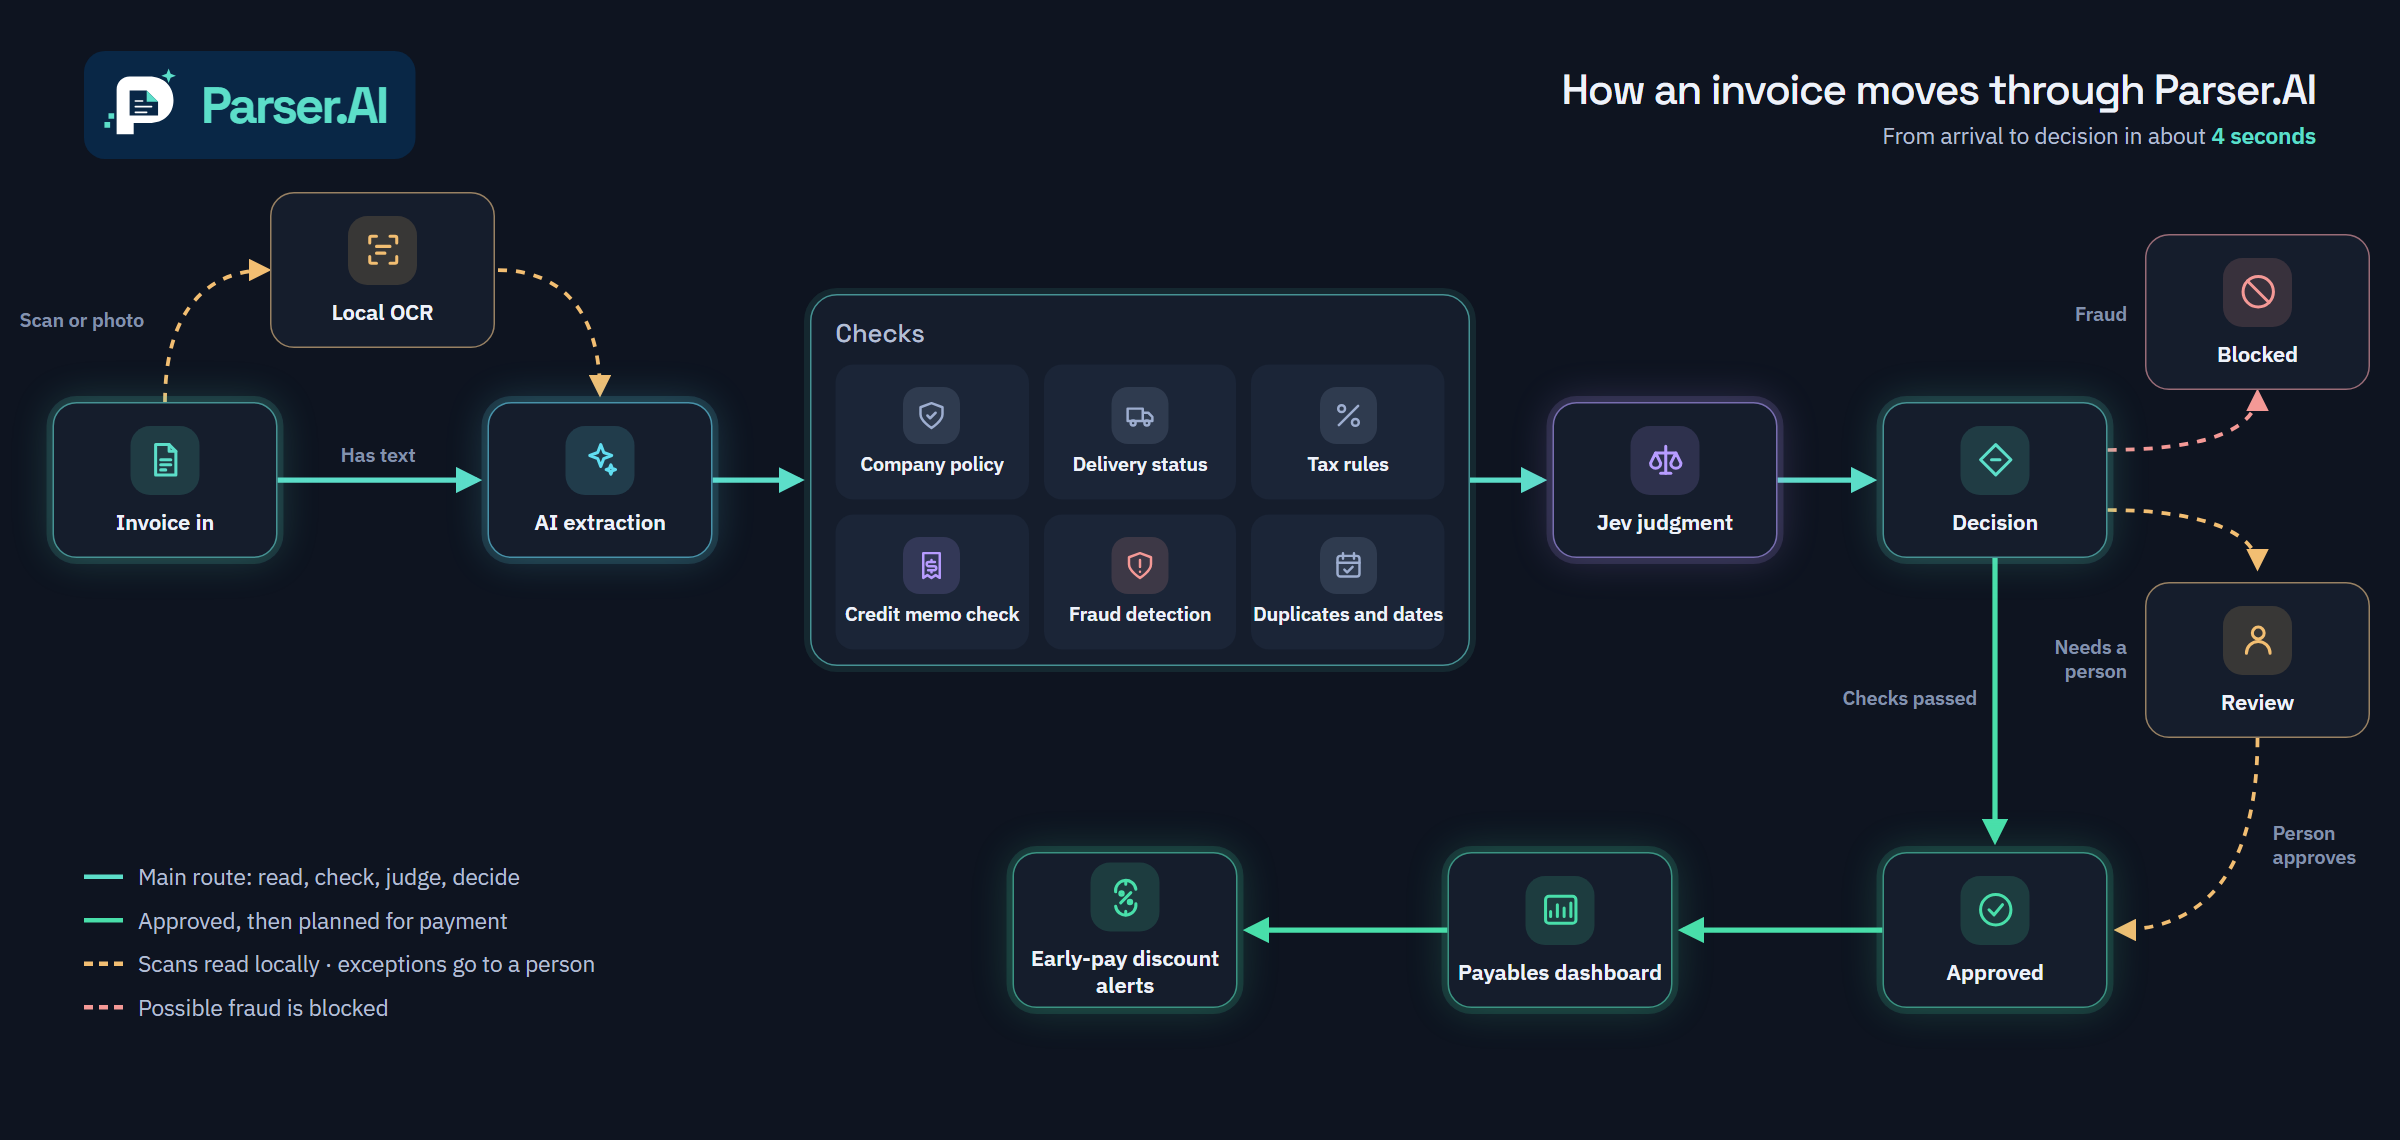
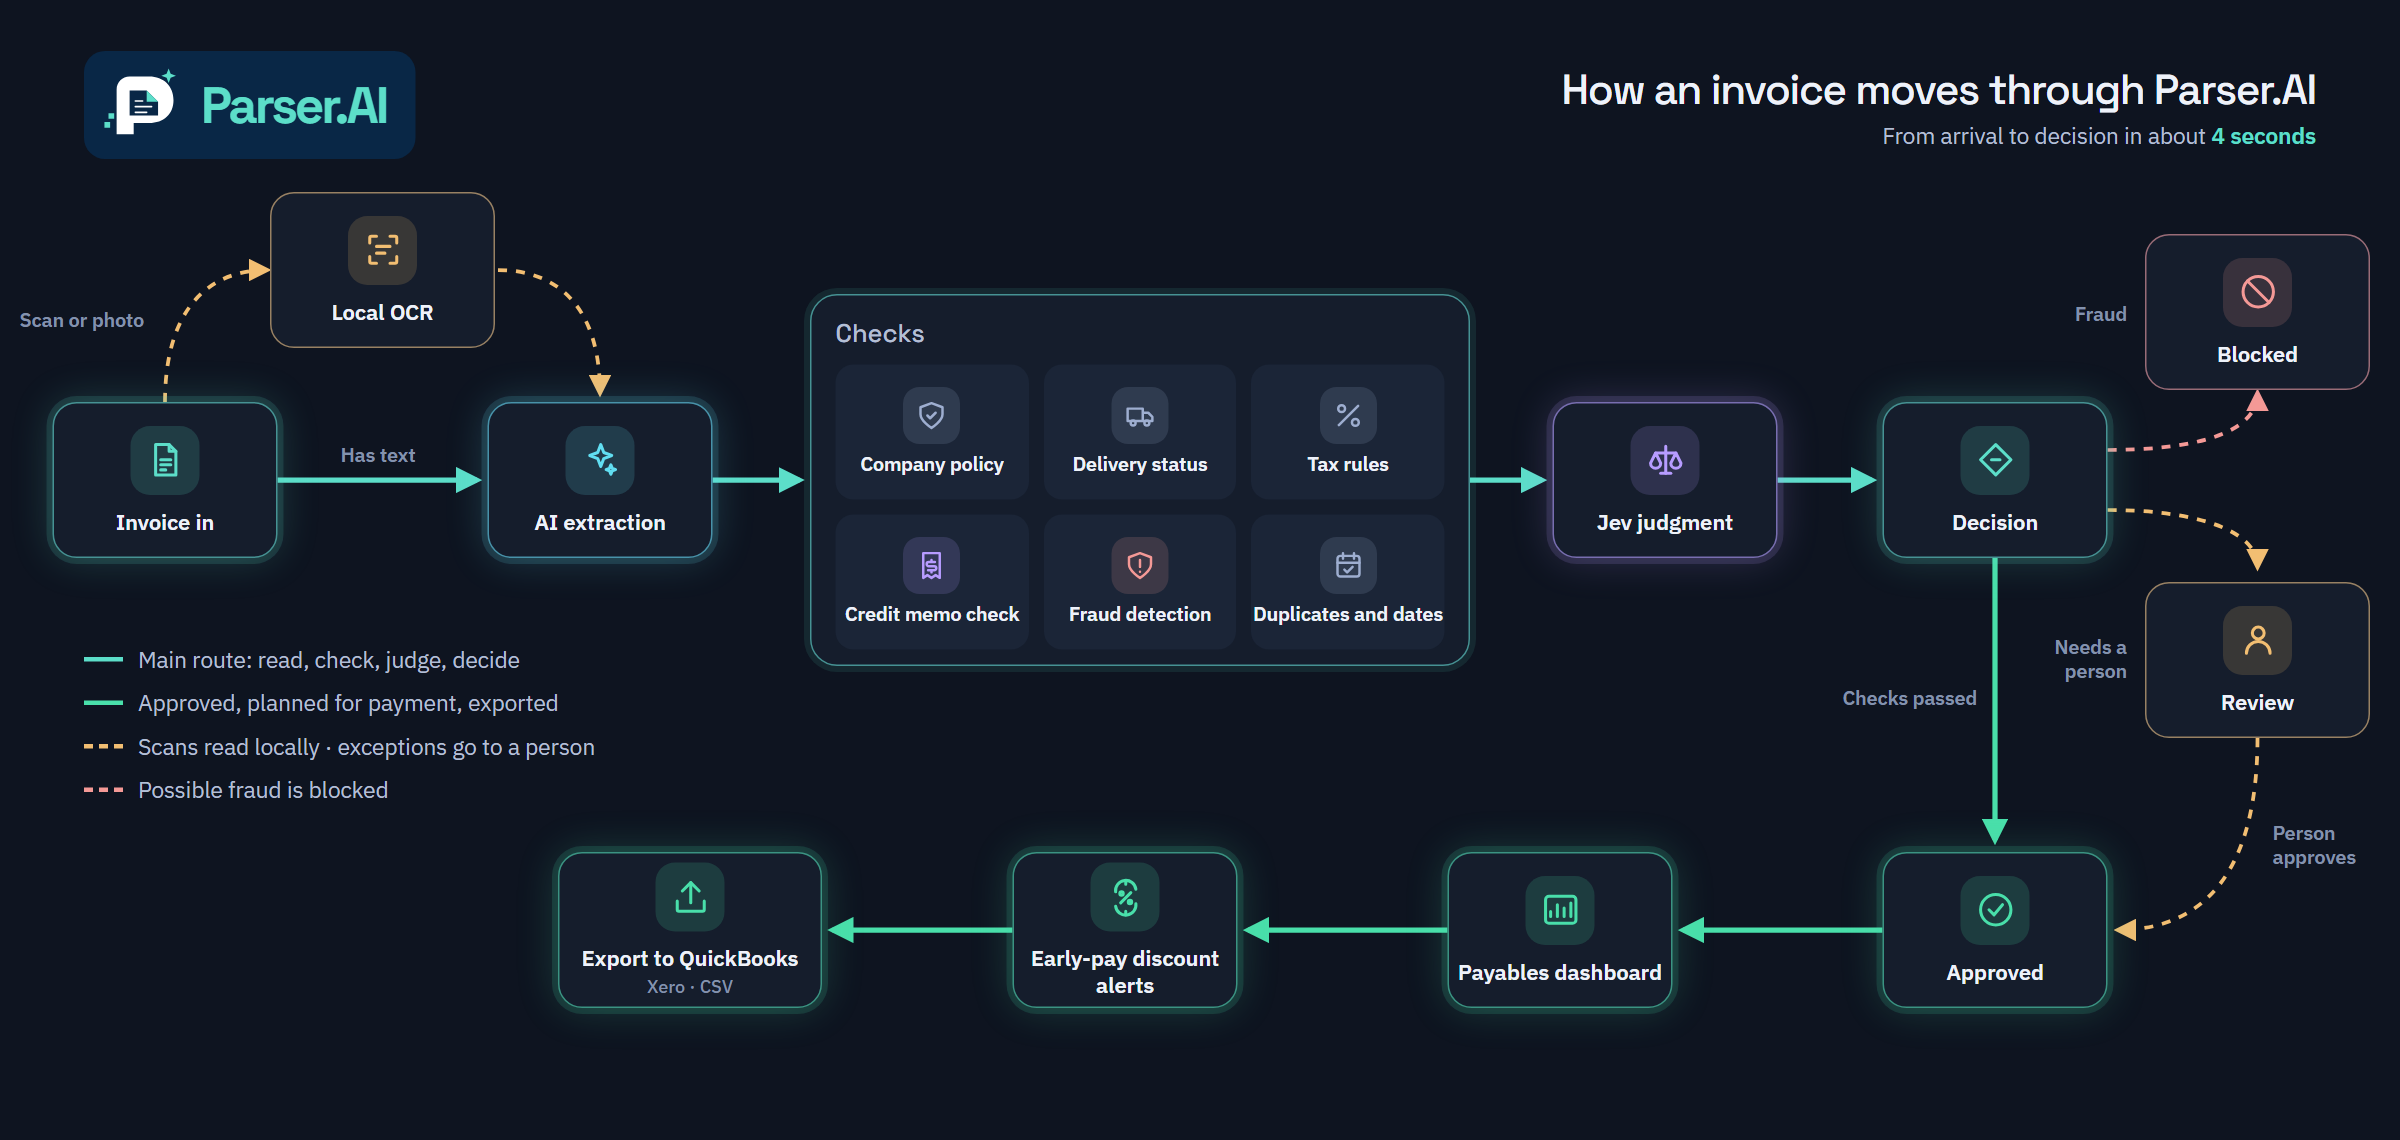
README flowchart: add the export step (QuickBooks, Xero, CSV)

Changed region(s): [[0.0312, 0.7368, 0.3438, 0.8904], [0.0312, 0.5526, 0.25, 0.7061], [0.3438, 0.7982, 0.4062, 0.8289]]

diff --git a/README.md b/README.md
@@ -5,7 +5,7 @@ against your vendors, purchase orders and deliveries, asks [TypeSafe Jev](https:
 the judgment questions that rules cannot answer, and decides what happens next, with every
 reason written down.
 
-![How an invoice moves through Parser.AI: invoice in, local OCR for scans, AI extraction, checks (company policy, delivery status, tax rules, credit memo, fraud detection, duplicates and dates), Jev judgment, decision; fraud is blocked, exceptions go to review, approved invoices reach the payables dashboard and early-pay discount alerts](docs/images/parser-flow.png)
+![How an invoice moves through Parser.AI: invoice in, local OCR for scans, AI extraction, checks (company policy, delivery status, tax rules, credit memo, fraud detection, duplicates and dates), Jev judgment, decision; fraud is blocked, exceptions go to review, approved invoices reach the payables dashboard and early-pay discount alerts, then export to QuickBooks, Xero or CSV](docs/images/parser-flow.png)
 
 > A portfolio project with a fictional company, **Northwind Analytics Inc** (Massachusetts,
 > USD). Approving an invoice prepares it for export to the accounting system; it never sends a
